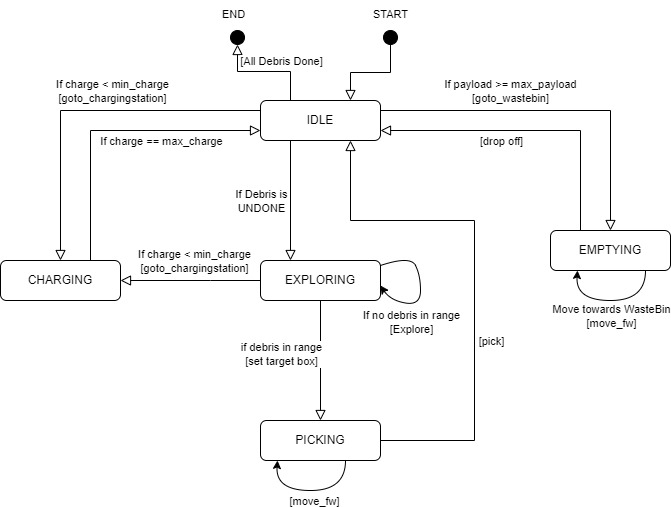
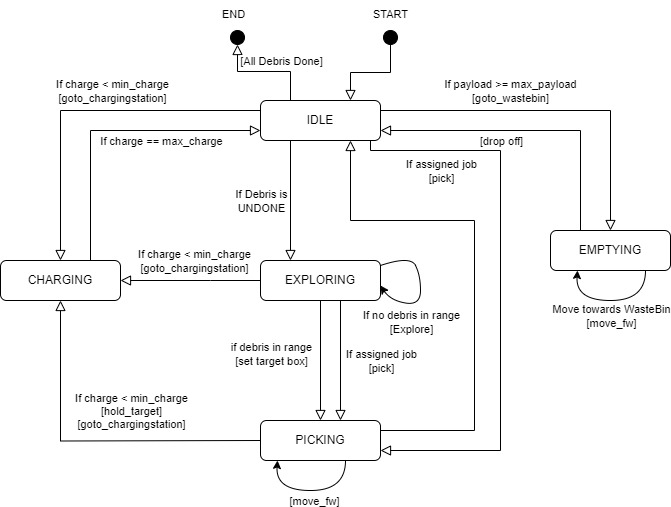
Added plurality and anti-plurality voting system, updated stateflow charts

diff --git a/src/beach/agents.py b/src/beach/agents.py
@@ -5,6 +5,7 @@ import math
 
 """ Extended Features from Assignment 2 """
 NEW_DEBRIS_CHANCE = 0.01     # Chance to add new debris to beach 
+VOTING_TYPE = "PLURALITY"      # PLURALITY or ANTIPLURALITY
 
 """ Beach Parameters"""
 NUMBER_OF_CELLS = 50
@@ -34,7 +35,7 @@ CT_MAX_PAYLOAD = 3
 CT_SPEED = 1
 NEEDS_CHARGE = True
 MAX_CHARGE = 1000    # Maximum starting charge
-MIN_CHARGE = 50      # Reserve charge when determining when to returning to charging station 
+MIN_CHARGE = 100     # Reserve charge when determining when to returning to charging station 
 CHARGING_SPEED = 50  # Charge restored each step once at charging station
 
 # LC Parameters
@@ -129,7 +130,8 @@ class CT_Robot(mesa.Agent):
         """
         Simple rule-based architecture, should determine the action to execute based on the robot state.
         """
-        # Debug Print Statements
+        # Debug Print Statements 
+        
         print("CT", self.unique_id, "state is:", self.state)
         print("CT", self.unique_id, "position is: ", self.x, ",", self.y)
         if self.target:
@@ -789,7 +791,7 @@ class LC_Robot(mesa.Agent):
         
 
 class Bidder(mesa.Agent):
-    """Allows CT robots to bid on jobs"""
+    """Agent that handles auctions"""
     def __init__(self, id, model, init_state=UNDONE):
         """
         Initialise
@@ -802,7 +804,6 @@ class Bidder(mesa.Agent):
         """
         Removes UNDERWAY and DONE objects
         """
-        # Remove UNDERWAY and DONE objects
         for job in self.jobs:
             if job.state in (UNDERWAY, DONE):
                 self.jobs.remove(job)
@@ -813,7 +814,7 @@ class Bidder(mesa.Agent):
         """
         Updates CT information to current step
         """
-        self.CT_list = [a for a in self.model.schedule.agents if (isinstance(a,CT_Robot) and (a.state == IDLE or a.state == EXPLORING) and a.reserve_target==None)]
+        self.CT_list = [a for a in self.model.schedule.agents if (isinstance(a,CT_Robot) and (a.state == IDLE or a.state == EXPLORING) and a.reserve_target==None and len(a.payload) != 3)]
         #print("Bidding CTs are:", [x.unique_id for x in self.CT_list])
 
     def create_auction(self, job):
@@ -822,29 +823,97 @@ class Bidder(mesa.Agent):
         * Removes Job from list once assigned
         * If Job is not assigned remove it
         """
-        # Placeholder - Gives Job to nearest IDLE/EXPLORING CT Agent
+
+        # Assign job to winner using its unique_id
+        def assign_winner(id):
+            print("Assigning CT", id, "to job")
+            winner_CT = [a for a in self.model.schedule.agents if (isinstance(a,CT_Robot) and a.unique_id==id)][0]
+            winner_CT.target = (job.x, job.y, job.unique_id)
+            job.state = UNDERWAY
+            winner_CT.state = PICKING
+
+        # Voting Methods  
+        def plurality(CT_bid):
+            """
+            Assigns agent based on most votes.
+            if multiple agents have the same votes the agent 2ith the lowest id will be assigned
+            """
+            for x in range(1, len(CT_bid.values())+1):
+                # Get smallest value in column
+                scores = ([i[x] for i in CT_bid.values()])
+                smallest  = min(scores)
+                highest_score = -1
+
+                for (key, value) in CT_bid.items():
+                    #print(key,value)
+                    #print(CT_bid[key][x])
+
+                    if value[0] > highest_score:
+                        highest_score = value[0]
+                        id = key
+
+                    if CT_bid[key][x] == smallest:
+                        new = list(value)
+                        new[0] += 1
+                        CT_bid[key] = tuple(new)
+
+            return id
+        
+        def antiplurality(CT_bid):
+            """
+            Worst agent recieves votes and agent with the least votes gets assigned. 
+            if multiple agents have the same votes the agent 2ith the lowest id will be assigned
+            """
+            for x in range(1, len(CT_bid.values())+1):
+                # Get smallest value in column
+                scores = ([i[x] for i in CT_bid.values()])
+                largest  = max(scores)
+                highest_score = 100000
+
+                for (key, value) in CT_bid.items():
+                    #print(key,value)
+                    #print(CT_bid[key][x])
+
+                    if value[0] < highest_score:
+                        highest_score = value[0]
+                        id = key
+
+                    if CT_bid[key][x] == largest:
+                        new = list(value)
+                        new[0] += 1
+                        CT_bid[key] = tuple(new)
+
+            return id
+
+
         # If no CTs available remove job
         if not self.CT_list:
             print("No available agents for job")
             self.jobs.remove(job)
             return
         
-        CT_bid = [] # (Unique_id, Distance to job, Charge, Storage Remaining)
+        # If only 1 CT, assign it to job
+        if len(self.CT_list) == 1:
+            print("sole winner is:", self.CT_list[0])
+            assign_winner(self.CT_list[0].unique_id)
+            return
+        
+        CT_bid = {} # (Unique_id: Score, Distance to job, Charge Lost, Current Payload)
         for CT in self.CT_list:
-            CT_bid.append((CT.unique_id, get_distance(job, CT), CT.charge, CT_MAX_PAYLOAD - len(CT.payload)))
+            CT_bid[CT.unique_id] = (0, get_distance(job, CT), MAX_CHARGE - CT.charge, len(CT.payload))
+        print("CT_bid is:", CT_bid)
 
-
-        # Find Closest
-        winner = min(CT_bid, key=lambda t: t[1])
+        # Return id of winning CT
+        match VOTING_TYPE:
+            case "PLURALITY":
+                winner = plurality(CT_bid)
+            case "ANTIPLURALITY":
+                winner = antiplurality(CT_bid)
+            case _:
+                winner = min(CT_bid, key=lambda t: t[1]) # Closest CT agent wins
+        
         print("Winner is ", winner)
-
-        winner_CT = [a for a in self.model.schedule.agents if (isinstance(a,CT_Robot) and a.unique_id==winner[0])][0]
-
-        # Set winner's target to job
-        winner_CT.target = (job.x, job.y, job.unique_id)
-        job.state = UNDERWAY
-        winner_CT.state = PICKING
-
+        assign_winner(winner)
         self.jobs.remove(job)
     
     def step(self):
@@ -862,7 +931,8 @@ class Bidder(mesa.Agent):
                     print("Jobs are", self.jobs)
                     self.update_jobs()
                     self.update_CT_info()
-                    self.create_auction(self.jobs[0])
+                    if self.jobs:
+                        self.create_auction(self.jobs[0])
 
     
 
